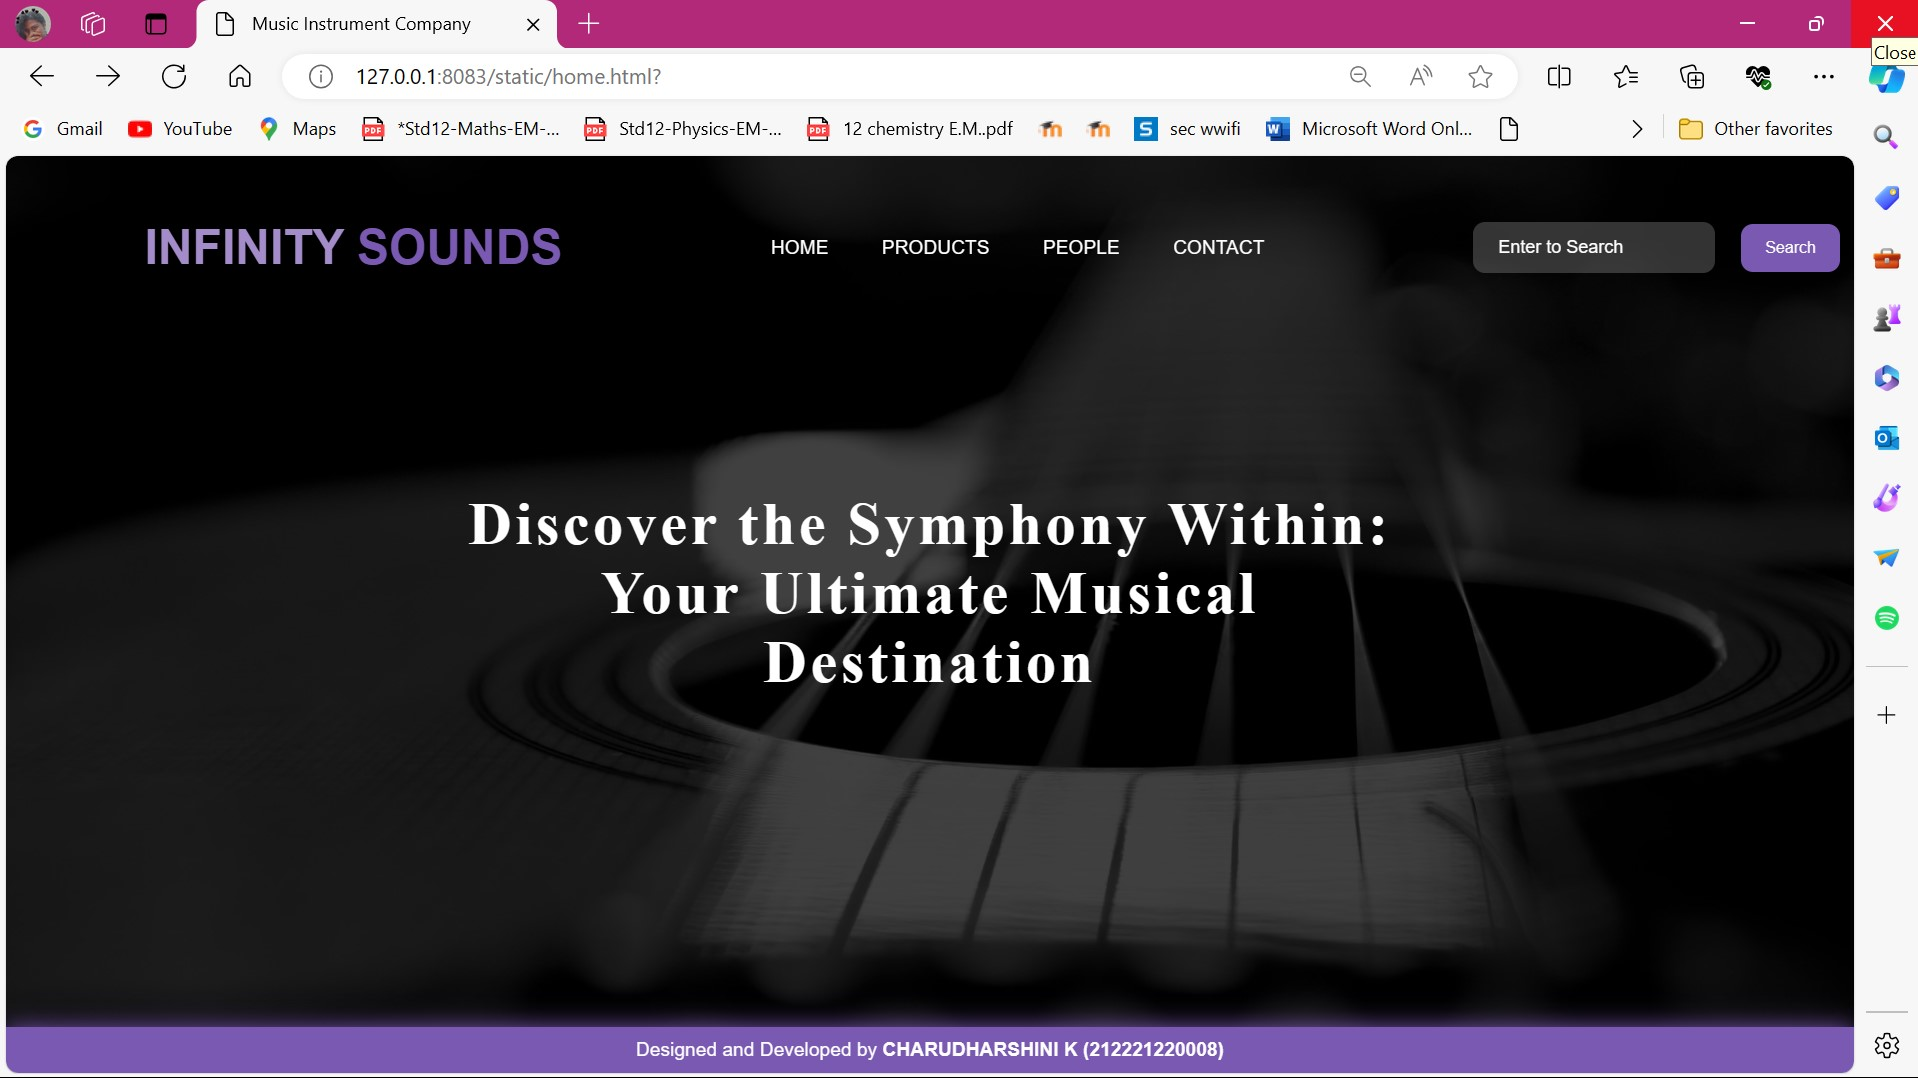
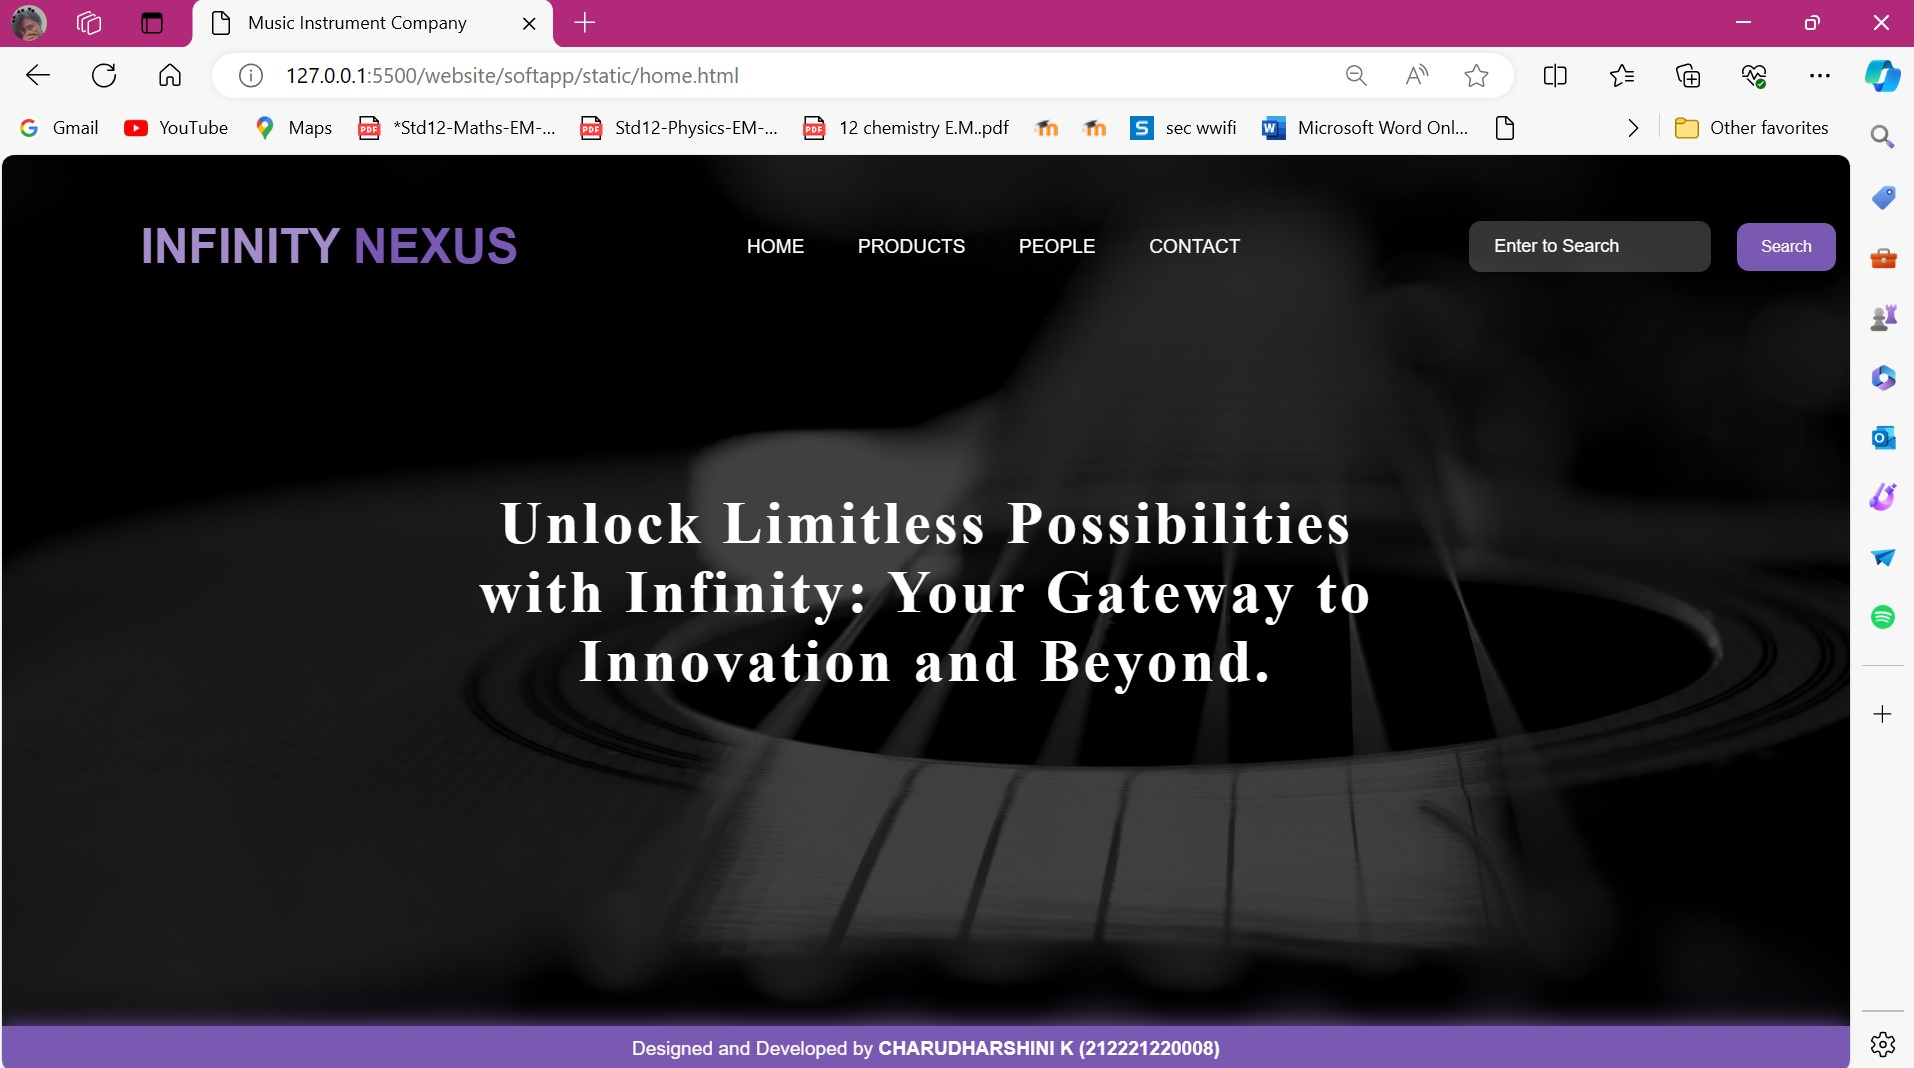
Success

diff --git a/website/softapp/static/products.html b/website/softapp/static/products.html
@@ -125,7 +125,7 @@
 <div class="banner">
     <br />
     <div class="navbar">
-        <h1 class="logo"><span>INFINITY </span>SOUNDS</h1>
+        <h1 class="logo"><span>INFINITY </span>NEXUS</h1>
         <ul>
             <li><a href="home.html"> Home </a></li>
             <li><a href="products.html" class="bg-product"> Products </a></li>
@@ -140,44 +140,44 @@
     <div class="container">
         <div class="box-container">
             <div class="box">
-                <img src="img1.jpg" alt="Trumpet">
-                <h3>TRUMPET</h3>
+                <img src="img1.jpg" alt="C-PLUS-PLUS">
+                <h3>C++</h3>
             </div>
             <div class="box">
-                <img src="img2.jpg" alt="Acoustic">
-                <h3>ACOUSTIC GUITAR</h3>
+                <img src="img2.jpg" alt="C">
+                <h3>C</h3>
             </div>
             <div class="box">
-                <img src="img3.jpg" alt="Piano">
-                <h3>PIANO</h3>
+                <img src="img3.jpg" alt="C-SHARP">
+                <h3>C-SHARP</h3>
             </div>
             <div class="box">
-                <img src="img4.jpg" alt="Flute">
-                <h3>FLUTE</h3>
+                <img src="img4.jpg" alt="PYTHON">
+                <h3>PYTHON</h3>
             </div>
             <div class="box">
-                <img src="img5.jpg" alt="Violin">
-                <h3>VIOLIN</h3>
+                <img src="img5.jpg" alt="JAVA">
+                <h3>JAVA</h3>
             </div>
             <div class="box">
-                <img src="img6.jpg" alt="Harp">
-                <h3>HARP</h3>
+                <img src="img6.jpg" alt="MY-SQL">
+                <h3>MY-SQL</h3>
             </div>
             <div class="box">
                 <img src="img7.jpg" alt="Kylophone">
-                <h3>XYLOPHONE</h3>
+                <h3>ANDROID</h3>
             </div>
             <div class="box">
                 <img src="img8.jpg" alt="Drums">
-                <h3>DRUMS</h3>
+                <h3>REACT.JS</h3>
             </div>
             <div class="box">
                 <img src="img9.jpg" alt="DJ set">
-                <h3>DJ SET</h3>
+                <h3>JAVASCRIPT</h3>
             </div>
             <div class="box">
                 <img src="img10.jpg" alt="Veena">
-                <h3>VEENA</h3>
+                <h3>HTML</h3>
             </div>
             <!-- Repeat the above box structure for other products -->
         </div>

diff --git a/website/softapp/static/home.html b/website/softapp/static/home.html
@@ -110,7 +110,7 @@
     <div class="banner">
       <br />
       <div class="navbar">
-        <h1 class="logo"><span>INFINITY </span>SOUNDS</h1>
+        <h1 class="logo"><span>INFINITY </span>NEXUS</h1>
         <ul>
           <li><a href="home.html"> Home </a></li>
           <li><a href="products.html"> Products </a></li>
@@ -125,7 +125,7 @@
       <div class="content">
         <div class="text">
           <h3>
-            Discover the Symphony Within: Your Ultimate Musical Destination
+            Unlock Limitless Possibilities with Infinity: Your Gateway to Innovation and Beyond.
           </h3>
           <br />
 

diff --git a/website/softapp/static/people.html b/website/softapp/static/people.html
@@ -114,7 +114,7 @@
     <div class="banner">
       <br />
       <div class="navbar">
-        <h1 class="logo"><span>INFINITY </span>SOUNDS</h1>
+        <h1 class="logo"><span>INFINITY </span>NEXUS</h1>
         <ul>
           <li><a href="home.html"> Home </a></li>
           <li><a href="products.html"> Products </a></li>

diff --git a/website/softapp/static/contact.html b/website/softapp/static/contact.html
@@ -125,7 +125,7 @@
 <div class="banner">
     <br />
     <div class="navbar">
-        <h1 class="logo"><span>INFINITY </span>SOUNDS</h1>
+        <h1 class="logo"><span>INFINITY </span>NEXUS</h1>
         <ul>
             <li><a href="home.html"> Home </a></li>
             <li><a href="products.html"> Products </a></li>
